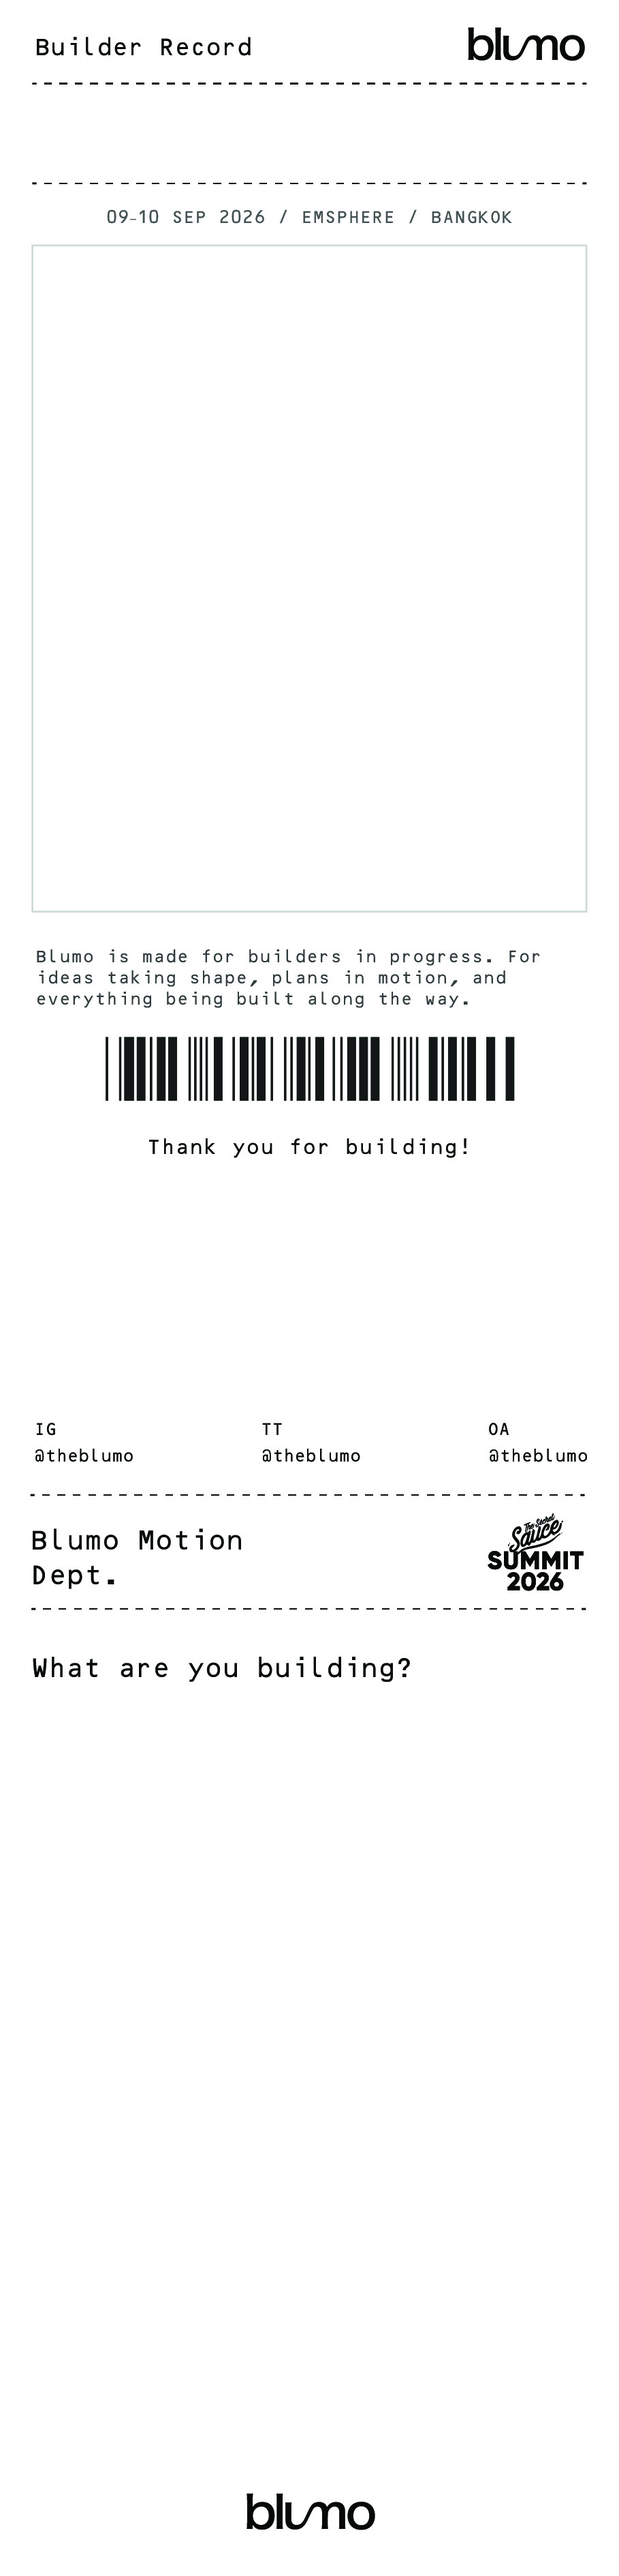
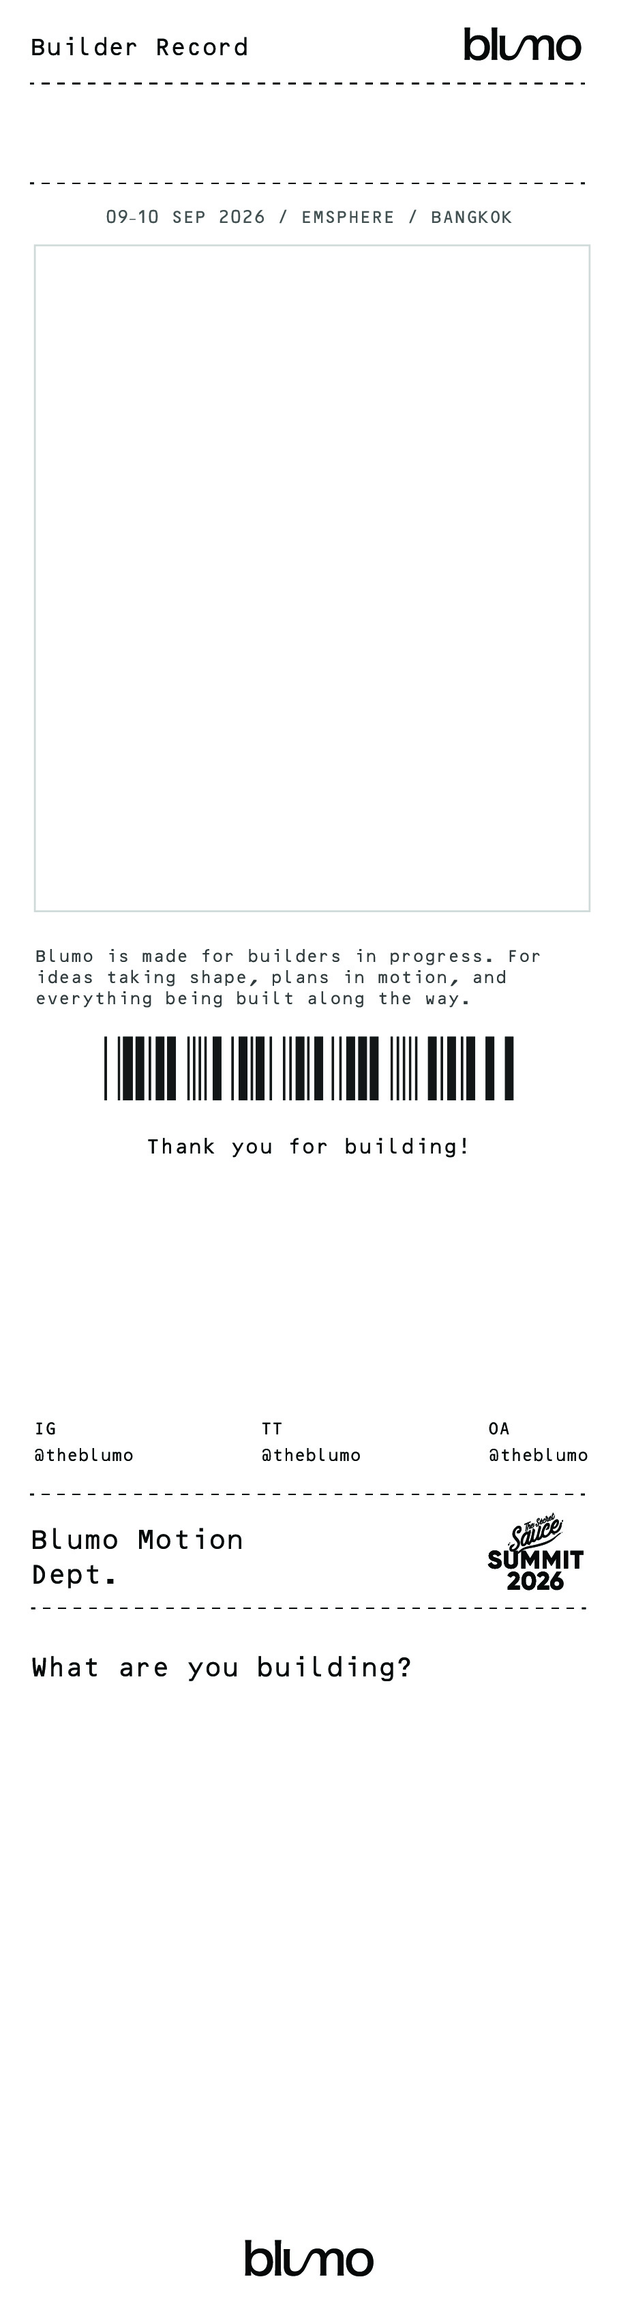
Release The Blumo v1.4 with photo slot tuning and preview name scaling.

diff --git a/frontend/js/composite.js b/frontend/js/composite.js
@@ -428,6 +428,21 @@ function getTheBlumoGuestNameFontSize(canvasWidth, slot) {
   return 36 * (canvasWidth / designW);
 }
 
+function getTheBlumoPhotoFrameBounds(frameConfig, refW, previewMode = false) {
+  const slots =
+    typeof getActivePhotoSlots === "function"
+      ? getActivePhotoSlots(frameConfig)
+      : frameConfig?.slots;
+  const photoSlot = slots?.[0];
+  if (!photoSlot) return null;
+
+  const drawSlot = resolveSlotForDraw(photoSlot, previewMode);
+  return {
+    x: (drawSlot.left / 100) * refW,
+    w: (drawSlot.width / 100) * refW,
+  };
+}
+
 async function drawTheBlumoGuestName(ctx, canvasWidth, canvasHeight, offsetY = 0, options = {}) {
   if (typeof isTheBlumoBoothActive !== "function" || !isTheBlumoBoothActive()) return;
 
@@ -447,10 +462,22 @@ async function drawTheBlumoGuestName(ctx, canvasWidth, canvasHeight, offsetY = 0
     options.previewMode && slot.previewHeight != null ? slot.previewHeight : slot.height;
   const refW = options.layoutReference?.width ?? canvasWidth;
   const refH = options.layoutReference?.height ?? canvasHeight;
-  const x = (slot.left / 100) * refW;
+  let x = (slot.left / 100) * refW;
   const y = (topPct / 100) * refH + offsetY;
-  const w = (slot.width / 100) * refW;
+  let w = (slot.width / 100) * refW;
   const h = (heightPct / 100) * refH;
+
+  if (options.previewMode && options.frameConfig) {
+    const photoBounds = getTheBlumoPhotoFrameBounds(
+      options.frameConfig,
+      refW,
+      true
+    );
+    if (photoBounds) {
+      x = photoBounds.x;
+      w = photoBounds.w;
+    }
+  }
 
   ctx.save();
 
@@ -472,7 +499,7 @@ async function drawTheBlumoGuestName(ctx, canvasWidth, canvasHeight, offsetY = 0
 
   const padX = ((slot.padLeftPct || 0) / 100) * canvasWidth;
   const maxTextW = w - padX * 2;
-  const minFontSize = Math.max(12, fontSize * 0.55);
+  const minFontSize = Math.max(10, fontSize * 0.45);
 
   ctx.font = `${fontSize}px "OCR-B", monospace`;
 
@@ -587,6 +614,8 @@ async function drawFrameAndPhotos(ctx, frameConfig, photos, canvasWidth, canvasH
   await drawTheBlumoGuestName(ctx, canvasWidth, canvasHeight, 0, {
     eraseBackground: options.eraseGuestNameBackground !== false,
     previewMode: usePreviewSlots,
+    frameConfig,
+    layoutReference: options.layoutReference,
   });
   await drawPhotosInSlots(ctx, frameConfig, photos, canvasWidth, canvasHeight, drawImageCover, {
     previewMode: usePreviewSlots,
@@ -878,6 +907,7 @@ async function drawTheBlumoPrintComposite(canvas, frameConfig, photos, options =
   await drawTheBlumoGuestName(ctx, frameW, frameH, 0, {
     eraseBackground: false,
     previewMode: true,
+    frameConfig,
     layoutReference: layoutRef,
   });
   await drawPhotosInSlots(ctx, frameConfig, photos, frameW, frameH, drawPhotoFn, {
@@ -1004,6 +1034,7 @@ async function renderTheBlumoReceiptLayer(frameConfig, photos, options = {}) {
   await drawTheBlumoGuestName(fullCtx, frameW, frameH, 0, {
     eraseBackground: false,
     previewMode: true,
+    frameConfig,
     layoutReference: layoutRef,
   });
   await drawPhotosInSlots(fullCtx, frameConfig, photos, frameW, frameH, drawPhotoFn, {

diff --git a/frontend/index.html b/frontend/index.html
@@ -394,7 +394,7 @@
     <script src="js/booth-settings.js?v=booth190"></script>
     <script src="js/booth-storage.js?v=booth190"></script>
     <script src="js/layouts.js?v=booth207"></script>
-    <script src="js/frames.js?v=booth212"></script>
+    <script src="js/frames.js?v=booth223"></script>
     <script src="js/navigation.js?v=booth190"></script>
     <script src="js/kiosk.js?v=booth200"></script>
     <script src="js/payment.js?v=booth190"></script>
@@ -402,7 +402,7 @@
     <script src="js/escpos.js"></script>
     <script src="js/thermer.js"></script>
     <script src="js/native-print.js?v=booth190"></script>
-    <script src="js/composite.js?v=booth217"></script>
+    <script src="js/composite.js?v=booth224"></script>
     <script src="js/camera.js?v=booth207"></script>
     <script src="js/app.js?v=booth190"></script>
   </body>

diff --git a/frontend/js/frames.js b/frontend/js/frames.js
@@ -51,10 +51,10 @@ const THE_BLUMO_FRAME_SLOTS = {
         top: 50,
         width: 87.321,
         height: 43.979,
-        previewLeft: 5.51,
+        previewLeft: 5.05,
         previewTop: 16.41,
-        previewWidth: 89.87,
-        previewHeight: 45.35,
+        previewWidth: 89.9,
+        previewHeight: 44.59,
         fit: "cover",
         noBleed: true,
       },
